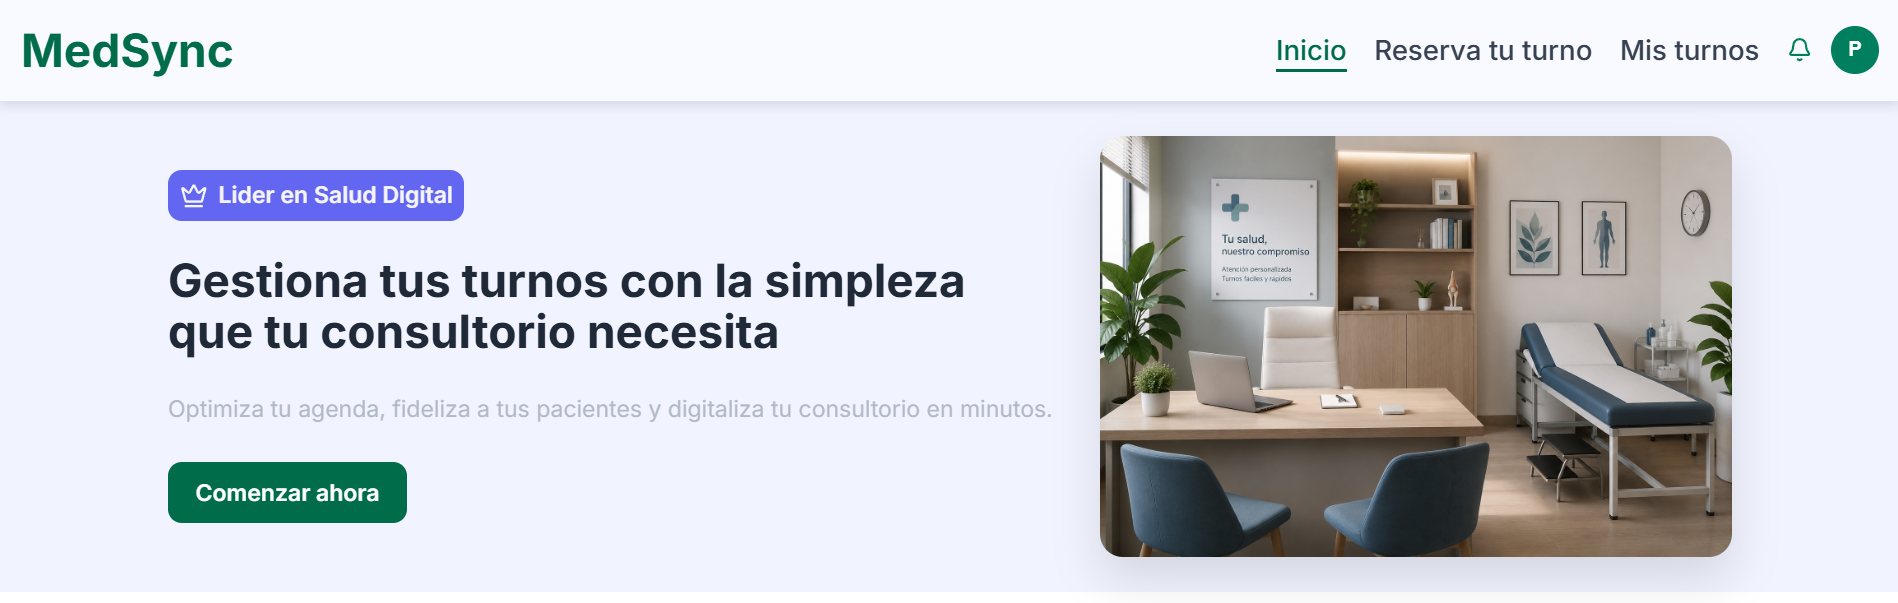
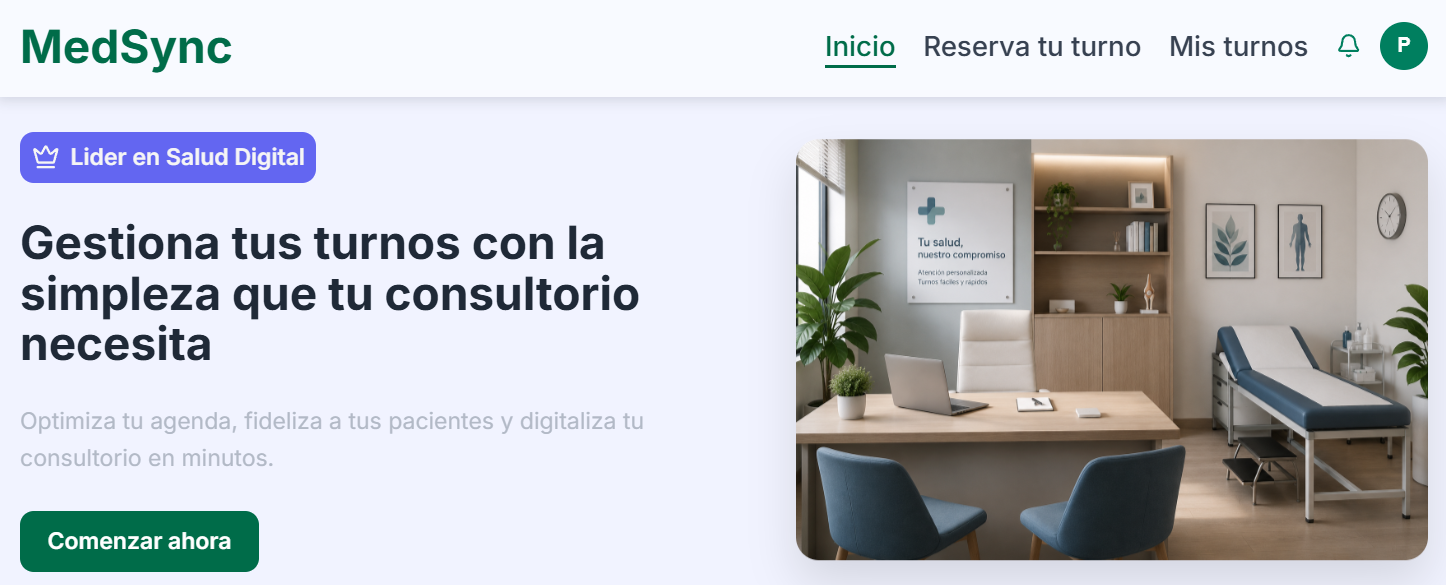
feat: adding final corrections

diff --git a/src/App.css b/src/App.css
@@ -145,6 +145,51 @@ a {
   line-height: 0.95;
 }
 
+.hero-title {
+  display: grid;
+  gap: 0.04em;
+}
+
+.title-gradient {
+  display: block;
+  width: fit-content;
+  color: var(--text);
+}
+
+@supports ((background-clip: text) or (-webkit-background-clip: text)) {
+  .title-gradient {
+    color: transparent;
+    background-size: 220% 100%;
+    background-clip: text;
+    -webkit-background-clip: text;
+    animation: title-gradient-shift 9s ease-in-out infinite alternate;
+  }
+
+  .title-gradient--medsync {
+    background-image: linear-gradient(110deg, #ffffff 0%, #e5e7eb 34%, #a3a3a3 68%, #f8fafc 100%);
+  }
+
+  .title-gradient--obxel {
+    background-image: linear-gradient(110deg, #f8fafc 0%, #d1d5db 32%, #8f8f8f 66%, #ffffff 100%);
+    animation-delay: 900ms;
+  }
+
+  .title-gradient--product {
+    background-image: linear-gradient(110deg, #ffffff 0%, #cfd3d8 30%, #737373 62%, #f8fafc 100%);
+    animation-delay: 1800ms;
+  }
+}
+
+@keyframes title-gradient-shift {
+  0% {
+    background-position: 0% 50%;
+  }
+
+  100% {
+    background-position: 100% 50%;
+  }
+}
+
 .hero-lead {
   max-width: 720px;
   margin: 28px 0 0;
@@ -177,8 +222,8 @@ a {
   width: 8px;
   height: 8px;
   border-radius: 50%;
-  background: var(--accent);
-  box-shadow: 0 0 18px rgba(255, 255, 255, 0.7);
+  background: #22c55e;
+  box-shadow: 0 0 18px rgba(34, 197, 94, 0.8);
 }
 
 .hero-actions {
@@ -382,7 +427,7 @@ a {
 }
 
 .project-card .project-preview {
-  min-height: 230px;
+  min-height: 250px;
   margin-bottom: 26px;
   border: 1px solid var(--line);
   border-radius: 6px;
@@ -418,9 +463,8 @@ a {
   height: 100%;
   min-height: inherit;
   display: block;
-  padding: 28px;
-  object-fit: contain;
-  object-position: center;
+  object-fit: cover;
+  object-position: center top;
   filter: saturate(0.92) contrast(1.02);
   transition: transform 450ms ease, filter 450ms ease;
 }
@@ -575,6 +619,7 @@ a {
 }
 
 @media (prefers-reduced-motion: reduce) {
+  .title-gradient,
   .tech-icon,
   .stack-column li,
   .stack-column li:hover .tech-icon,
@@ -811,7 +856,7 @@ a {
   }
 
   .project-preview img {
-    padding: 14px;
+    object-position: center top;
   }
 
   .project-content,

diff --git a/src/App.jsx b/src/App.jsx
@@ -24,7 +24,7 @@ const projects = [
     imageAlt: 'Pagina principal de Obxel con hero de consultoria tecnologica y software destacado',
   },
   {
-    name: 'Landing Empresarial',
+    name: 'Exporting Experts',
     category: 'Landing page / Negocio',
     description:
       'Pagina empresarial pensada para comunicar servicios, generar confianza y convertir visitas en contactos comerciales.',
@@ -105,7 +105,7 @@ const contactLinks = [
   {
     label: 'Email',
     value: 'lucassosaurquiza97@gmail.com',
-    href: 'mailto:lucassosaurquiza97@gmail.com',
+    href: 'https://mail.google.com/mail/?view=cm&fs=1&to=lucassosaurquiza97@gmail.com&su=Consulta%20desde%20tu%20portfolio',
   },
   {
     label: 'GitHub',
@@ -264,7 +264,11 @@ function App() {
                 <span />
                 Disponible para nuevos proyectos
               </p>
-              <h1>Full Stack Developer & Product Builder</h1>
+              <h1 className="hero-title" aria-label="Full Stack Developer and Product Builder">
+                <span className="title-gradient title-gradient--medsync">Full Stack</span>
+                <span className="title-gradient title-gradient--obxel">Developer</span>
+                <span className="title-gradient title-gradient--product">& Product Builder</span>
+              </h1>
               <p className="hero-lead">
                 Soy Lucas Sosa Urquiza. Construyo productos digitales completos,
                 desde la interfaz hasta la logica backend, con foco en claridad,
